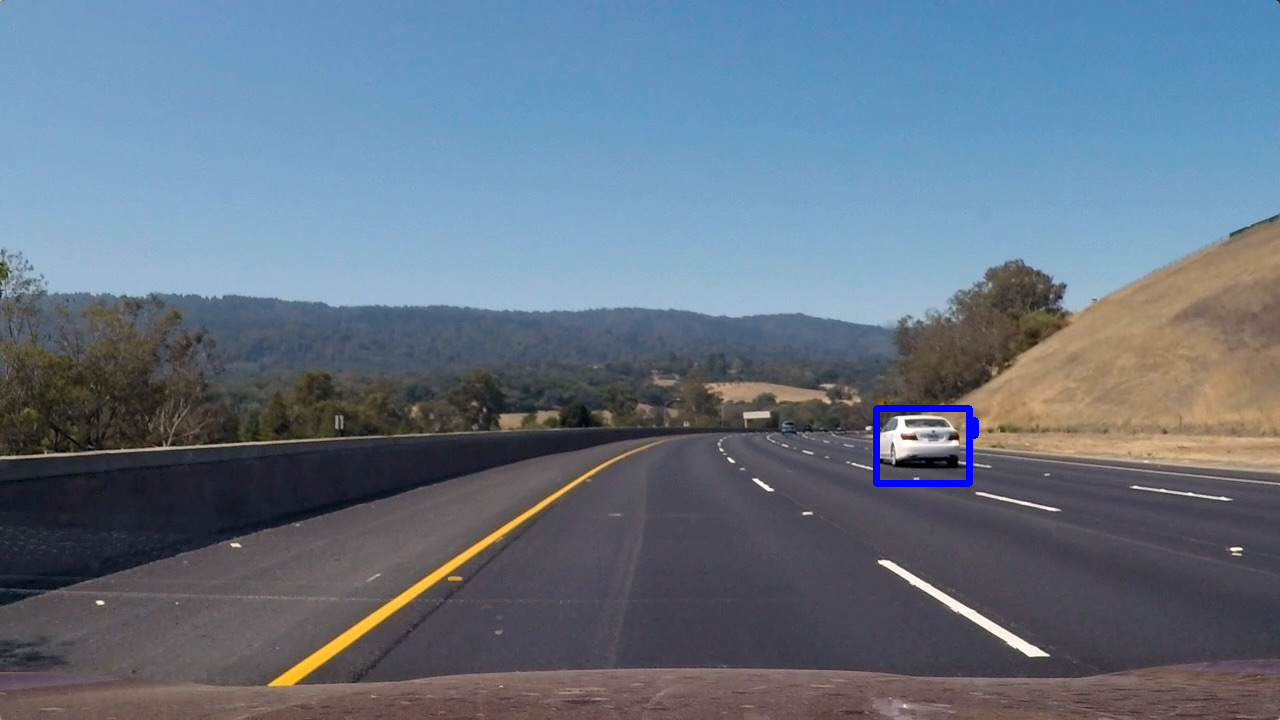
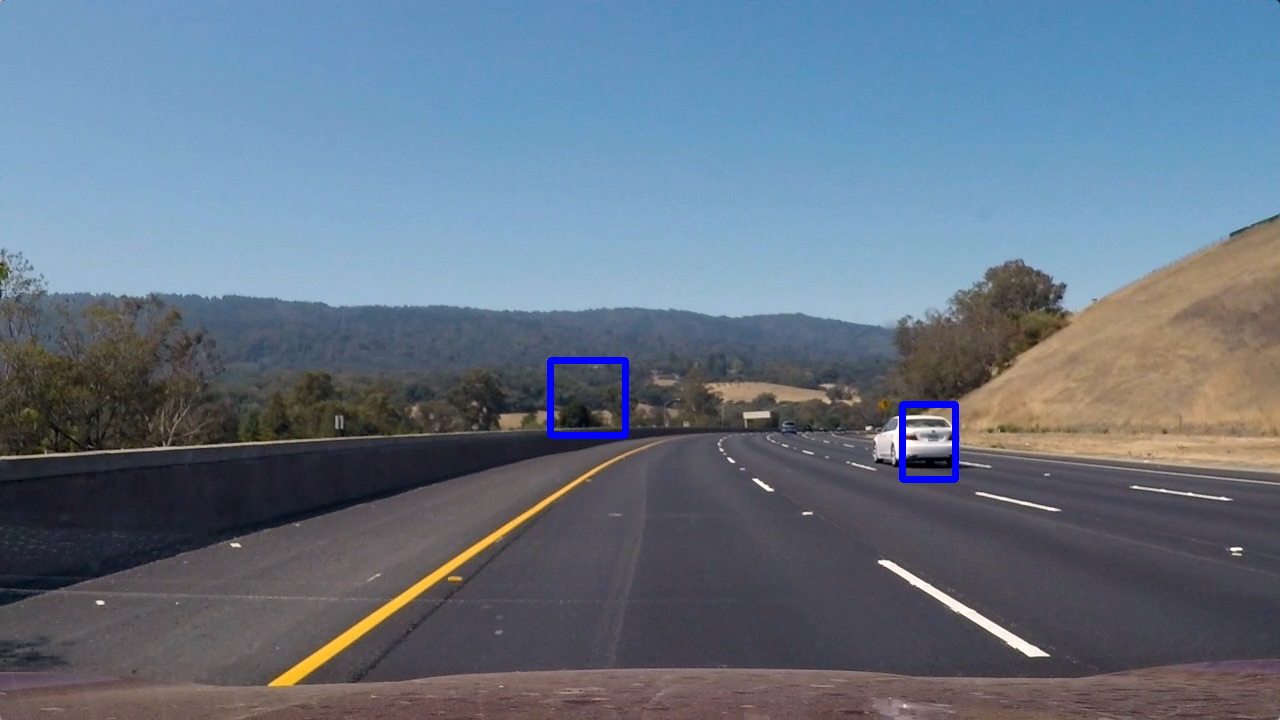
adding other images & corrected writeup

Changed region(s): [[0.6562, 0.55, 0.7812, 0.7028], [0.4062, 0.4889, 0.5, 0.6111]]

diff --git a/writeup.md b/writeup.md
@@ -79,7 +79,8 @@ Ultimately I searched on one scale using YUV 3-channel HOG features without spat
 ![alt text][test2]
 ![alt text][test6]
 
-To improve performance I tried to compute the HoG features only once per image but did not succeed. But reducing the sliding window sizes to one instead of three
+To improve performance I tried to compute the HoG features only once per image but did not succeed.
+Instead I reduced the sliding window sizes to one instead of three different sizes which improved speed a little.
 
 ---
 
